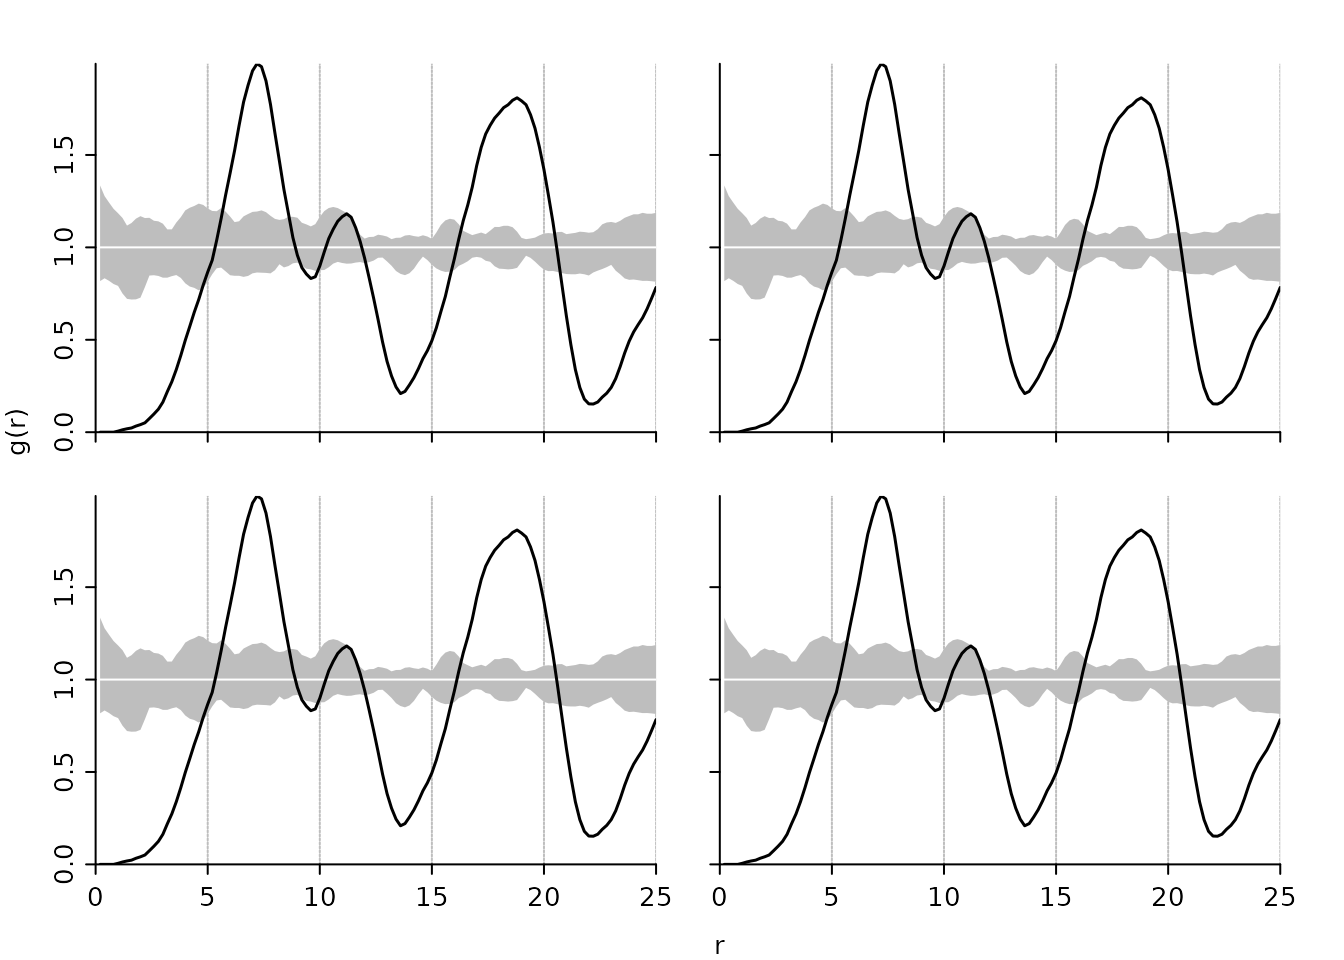
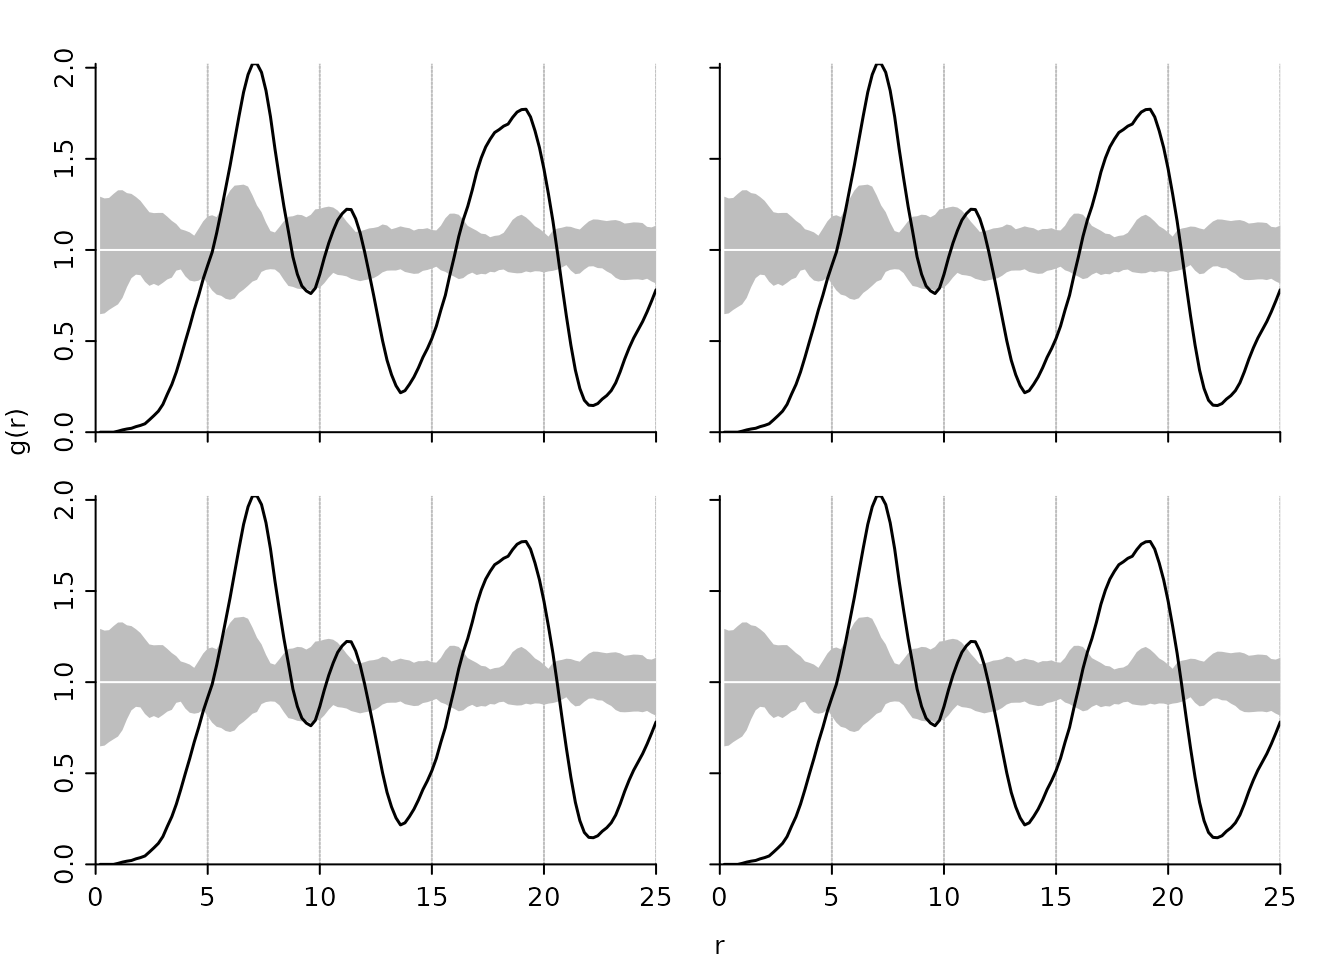
Built site for apcf: 0.1.7.904@e9ba9e3

diff --git a/news/index.html b/news/index.html
@@ -53,16 +53,16 @@
     <div class="section level2">
 <h2 class="pkg-version" data-toc-text="0.1.7.902" id="apcf-017902">apcf 0.1.7.902<a class="anchor" aria-label="anchor" href="#apcf-017902"></a></h2>
 <ul><li>using package wk for facilitating sf geometries</li>
-</ul></div>
-    <div class="section level2">
-<h2 class="pkg-version" data-toc-text="0.1.7" id="apcf-017">apcf 0.1.7<a class="anchor" aria-label="anchor" href="#apcf-017"></a></h2><p class="text-muted">CRAN release: 2021-10-27</p>
+</ul><div class="section level3">
+<h3 id="changes-in-version-0-1-7-902">Changes in version 0.1.7<a class="anchor" aria-label="anchor" href="#changes-in-version-0-1-7-902"></a></h3>
 <ul><li>updated message generation in configure.ac as requested by CRAN</li>
 </ul></div>
-    <div class="section level2">
-<h2 class="pkg-version" data-toc-text="0.1.6" id="apcf-016">apcf 0.1.6<a class="anchor" aria-label="anchor" href="#apcf-016"></a></h2><p class="text-muted">CRAN release: 2021-07-27</p>
+<div class="section level3">
+<h3 id="changes-in-version-0-1-7-902-1">Changes in version 0.1.6<a class="anchor" aria-label="anchor" href="#changes-in-version-0-1-7-902-1"></a></h3>
 <ul><li>Windows: update to GDAL 3.2.1 and fix for UCRT support (thanks <a href="https://github.com/jeroen" class="external-link">@jeroen</a>)</li>
 <li>drop LazyData from description</li>
 </ul></div>
+</div>
     <div class="section level2">
 <h2 class="pkg-version" data-toc-text="0.1.5" id="apcf-015">apcf 0.1.5<a class="anchor" aria-label="anchor" href="#apcf-015"></a></h2><p class="text-muted">CRAN release: 2020-07-05</p>
 <ul><li>cleaned up configure</li>

diff --git a/articles/intro.html b/articles/intro.html
@@ -133,12 +133,12 @@
 <span class="co">## Significance level of pointwise Monte Carlo test: 0.2</span>
 <span class="co">## </span>
 <span class="co">##     r           g       lwr      upr</span>
-<span class="co">## 1 0.2 0.000000000 0.8174198 1.335012</span>
-<span class="co">## 2 0.4 0.000000000 0.8327804 1.277482</span>
-<span class="co">## 3 0.6 0.000000000 0.8188917 1.242406</span>
-<span class="co">## 4 0.8 0.000000000 0.8017070 1.208735</span>
-<span class="co">## 5 1.0 0.005729816 0.7916884 1.184920</span>
-<span class="co">## 6 1.2 0.012980596 0.7503067 1.159145</span></code></pre></div>
+<span class="co">## 1 0.2 0.000000000 0.6476219 1.292267</span>
+<span class="co">## 2 0.4 0.000000000 0.6517615 1.282843</span>
+<span class="co">## 3 0.6 0.000000000 0.6707080 1.285385</span>
+<span class="co">## 4 0.8 0.000000000 0.6863569 1.307534</span>
+<span class="co">## 5 1.0 0.005576627 0.7014487 1.327211</span>
+<span class="co">## 6 1.2 0.012522086 0.7366563 1.327954</span></code></pre></div>
 </div>
 <div class="section level2">
 <h2 id="plotting-the-pcf">Plotting the PCF<a class="anchor" aria-label="anchor" href="#plotting-the-pcf"></a>
